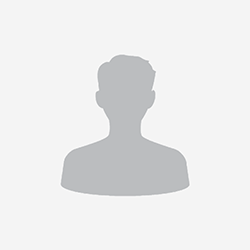
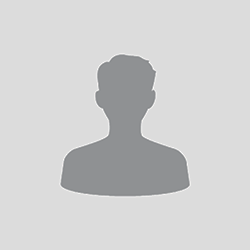
Update style and add 404

Changed region(s): [[0.224, 0.196, 0.784, 0.812]]

diff --git a/public/404.html b/public/404.html
@@ -1,0 +1,322 @@
+<!DOCTYPE html>
+<html>
+  <head>
+    <meta charset="utf-8" />
+    <meta name="viewport" content="width=device-width, initial-scale=1" />
+    <meta http-equiv="x-ua-compatible" content="ie=edge" />
+    <meta name="google-site-verification" content="tPF4MkMFOKSA1UpzqhOkmaLuZyXORthRVe-GqmqBDhE" />
+
+    <link rel="shortcut icon" href="/assets/icons/favicon.ico" />
+
+    <title>Page Not Found - Argabioso Domains</title>
+
+    <style>
+      body{
+        background-color: #f8f9fa;
+        display: flex;
+        height:100vh;
+        margin: 0;
+        padding: 0;
+      }
+
+      body.dark {
+        background-color: #202124;
+      }
+      #mainImage_create {
+        display: block;
+        width: 99%;
+        height: 99%;
+        margin: auto;
+      }
+
+      @media screen and (min-width: 801px) {
+        #mainImage_create {
+          width: 800px;
+          height: 600px;
+        }
+      }
+    </style>
+    <link rel="stylesheet" href="/assets/styles/common/fonts.css" />
+  </head>
+  <body>
+          <svg id="mainImage_create" data-name="mainImage" xmlns="http://www.w3.org/2000/svg" viewBox="0 0 171.2 81.5">
+            <style id="svgStyle">
+              .changeColor {
+                fill: #4f86ed;
+              }
+
+              #title {
+                font-size: 50%;
+                font-family: 'Google Sans', sans-serif;
+              }
+
+              body.dark #title {
+                fill: #fff;
+              }
+
+              .cls-1 {
+                opacity: 0.3;
+              }
+
+              .cls-7 {
+                opacity: 0.8;
+              }
+
+              .cls-2 {
+                fill: #fff;
+              }
+
+              .cls-10,
+              .cls-11,
+              .cls-12,
+              .cls-14,
+              .cls-16,
+              .cls-3 {
+                fill: none;
+              }
+
+              .cls-3 {
+                stroke: #5c7690;
+              }
+
+              body.dark .cls-3 {
+                stroke: #518bc4;
+              }
+
+              .cls-10,
+              .cls-11,
+              .cls-12,
+              .cls-3 {
+                stroke-miterlimit: 10;
+              }
+
+              .cls-14,
+              .cls-15,
+              .cls-16,
+              .cls-3 {
+                stroke-width: 0.5px;
+              }
+
+              .cls-4 {
+                fill: #ffe1d9;
+              }
+
+              .cls-5 {
+                fill: #ffcfbf;
+              }
+
+              .cls-6 {
+                fill: #fecbb6;
+              }
+
+              .cls-9 {
+                fill: #fecb02;
+              }
+
+              .cls-10,
+              .cls-12 {
+                stroke: #d26f51;
+              }
+
+              .cls-10,
+              .cls-11 {
+                stroke-width: 0.38px;
+              }
+
+              .cls-11 {
+                stroke: #000;
+              }
+
+              .cls-12 {
+                stroke-width: 0.19px;
+              }
+
+              .cls-13 {
+                opacity: 0.45;
+              }
+
+              .cls-14,
+              .cls-15,
+              .cls-16 {
+                stroke: #b0bec5;
+                stroke-linejoin: round;
+              }
+
+              .cls-15 {
+                fill: #edf0f2;
+              }
+
+              .cls-16 {
+                stroke-linecap: round;
+              }
+
+              .cls-17 {
+                font-family: 'Google Sans', sans-serif;
+                font-size: 49.87px;
+                font-weight: 700;
+              }
+
+              .cls-18 {
+                fill: #fffdbb;
+                opacity: 0.5;
+              }
+
+              body.dark .cls-15 {
+                fill: #36383d;
+              }
+
+              body.dark .cls-14,
+              body.dark .cls-15,
+              body.dark .cls-16 {
+                stroke: #666e73;
+              }
+
+
+              /*---------------------------
+                     SVG Animate
+            ---------------------------*/
+              .earMove {
+                transition: all ease-in-out 2s;
+                transform-origin: 50% 50%;
+                animation: earmove 1.5s linear infinite alternate;
+              }
+
+              .faceMove {
+                transition: all ease-in-out 2s;
+                transform-origin: 50% 50%;
+                animation: move 1.5s linear infinite alternate;
+              }
+
+              .neckMove {
+                transition: all ease-in-out 2s;
+                transform-origin: 50% 50%;
+                animation: neck 1.5s linear infinite alternate;
+              }
+
+
+              @keyframes earmove {
+                0% {
+                  transform: translateX(-0.3px) translateY(0.6px);
+                }
+                30% {
+                  transform: translateX(-0.3px) translateY(0.6px);
+                }
+
+                60% {
+                  transform: translateX(-0.7px) translateY(0px);
+                }
+
+                70% {
+                  transform: translateX(-0.7px) translateY(-0.3px);
+                }
+                100% {
+                  transform: translateX(-0.7px) translateY(-0.3px);
+                }
+              }
+
+              @keyframes move {
+                0% {
+                  transform: translateX(-0.3px) translateY(0.6px);
+                }
+                30% {
+                  transform: translateX(-0.3px) translateY(0.6px);
+                }
+
+                60% {
+                  transform: translateX(2px) translateY(0px);
+                }
+
+                70% {
+                  transform: translateX(2px) translateY(-0.3px);
+                }
+                100% {
+                  transform: translateX(2px) translateY(-0.3px);
+                }
+              }
+
+              @keyframes neck {
+                0% {
+                  transform: translateY(0.7px);
+                }
+                50% {
+                  transform: translateY(0.7px);
+                }
+                100% {
+                  transform: translateY(0px);
+                }
+              }
+            </style>
+            <path id="c-1" class="changeColor cls-1" d="M46.62,52.5c5.78,4.9,21.14,8.4,39.19,8.4s33.41-3.5,39.19-8.4c-5.78-4.9-21.14-8.4-39.19-8.4S52.41,47.6,46.62,52.5Z" style="fill: rgb(237, 162, 0);"></path>
+            <path class="cls-2" d="M99.73,47.71H68.65a7.13,7.13,0,0,0-7.13,7.13V60a152.58,152.58,0,0,0,24.3,1.83,157.87,157.87,0,0,0,21.05-1.35V54.84A7.13,7.13,0,0,0,99.73,47.71Z"></path>
+            <path class="cls-3" d="M123.56,55.81C115,58.94,101.27,61,85.81,61c-26,0-47-5.71-47-12.76,0-3.45,5.05-6.58,13.25-8.88"></path>
+            <path class="cls-3" d="M55.37,38.47a140,140,0,0,1,30.44-3c26,0,47,5.71,47,12.76,0,2.4-2.44,4.65-6.69,6.57"></path>
+            <path class="cls-3" d="M53.41,38.95l.94-.24"></path>
+            <path class="cls-4" d="M91.68,47.71l-.75-11.2L79.15,43.84l-1.69,3.87H75.79c0,3.36,3.76,6.08,8.4,6.08s8.4-2.72,8.4-6.08Z"></path>
+            <path class="cls-5 neckMove" d="M78,46.53a27.19,27.19,0,0,0,6.41.82c3.1,0,7.11-2.19,7.11-2.19l-.42-6.2L79.15,43.84Z"></path>
+            <polygon class="earMove" points="92.59 32.22 92.59 28.5 76.77 27.71 76.77 32.22 92.59 32.22"></polygon>
+            <circle class="cls-6 earMove" cx="78.06" cy="34.04" r="2.47"></circle>
+            <path class="cls-4" d="M81.74,57.06,60.63,49.72h0A6.72,6.72,0,1,0,57.7,62.49H93.25C93.25,56.78,81.74,57.06,81.74,57.06Z"></path>
+            <path class="cls-4" d="M77.46,25H90.92a0,0,0,0,1,0,0V39.38a6.73,6.73,0,0,1-6.73,6.73h0a6.73,6.73,0,0,1-6.73-6.73V25A0,0,0,0,1,77.46,25Z"></path>
+            <rect id="c-2" class="changeColor cls-7" x="74.82" y="26.48" width="19.14" height="2.45" transform="translate(1.29 -3.65) rotate(2.49)" style="fill: rgb(237, 162, 0);"></rect>
+            <path id="c-3" class="changeColor cls-7" d="M84.36,18.69h.5a7.8,7.8,0,0,1,7.8,7.8v0a0,0,0,0,1,0,0H76.56a0,0,0,0,1,0,0v0A7.8,7.8,0,0,1,84.36,18.69Z" transform="translate(1.06 -3.66) rotate(2.49)" style="fill: rgb(237, 162, 0);"></path>
+            <polygon id="c-4" class="changeColor cls-8" points="82.44 23.89 92.18 24.32 92.59 24.34 92.48 26.84 80.96 26.33 82.44 23.89" style="fill: rgb(237, 162, 0);"></polygon>
+            <circle class="cls-9 faceMove" cx="78.72" cy="23.73" r="3.73" transform="translate(51.58 101.34) rotate(-87.51)"></circle>
+            <circle class="cls-2 faceMove" cx="78.72" cy="23.73" r="2.36" transform="translate(51.58 101.34) rotate(-87.51)"></circle>
+            <circle class="cls-4 earMove" cx="90.92" cy="34.04" r="2.47"></circle>
+            <path class="cls-4" d="M112.2,53l-9.87-21.92-3-5.48-11.86-.22,7.42,3.35H91.55l5.82,4.58,2,22.26h0A6.72,6.72,0,1,0,112.2,53Z"></path>
+            <ellipse class="faceMove" cx="80.09" cy="33.12" rx="0.53" ry="0.59"></ellipse>
+            <ellipse class="faceMove" cx="86.34" cy="33.12" rx="0.53" ry="0.59"></ellipse>
+            <polyline class="cls-10 faceMove" points="84.19 31.08 81.74 37.01 84.39 37.01"></polyline>
+            <path class="cls-10 faceMove" d="M83.06,40.36a4,4,0,0,1,2.75-1"></path>
+            <line class="cls-11 faceMove" x1="81.07" y1="30.33" x2="78.47" y2="30.58"></line>
+            <line class="cls-11 faceMove" x1="86.34" y1="30.45" x2="88.15" y2="31.08"></line>
+            <line class="cls-12" x1="106.86" y1="47.82" x2="110.99" y2="46.11"></line>
+            <line class="cls-12" x1="107.43" y1="49.9" x2="111.55" y2="48.19"></line>
+            <line class="cls-12" x1="107.99" y1="51.98" x2="112.11" y2="50.27"></line>
+            <g class="cls-13">
+              <rect class="cls-14" x="85.81" y="2.46" width="10.77" height="3.5"></rect>
+              <rect class="cls-15" x="96.58" y="2.46" width="10.77" height="3.5"></rect>
+              <rect class="cls-14" x="92.19" y="5.95" width="10.77" height="3.5"></rect>
+              <line class="cls-16" x1="107.36" y1="5.95" x2="109.63" y2="5.95"></line>
+              <line class="cls-16" x1="110.68" y1="5.95" x2="111.57" y2="5.95"></line>
+            </g>
+            <g class="cls-13">
+              <rect class="cls-16" x="125" y="23.12" width="10.77" height="3.5"></rect>
+              <rect class="cls-15" x="130.39" y="26.62" width="10.77" height="3.5"></rect>
+              <rect class="cls-16" x="119.62" y="26.62" width="10.77" height="3.5"></rect>
+              <line class="cls-16" x1="141.16" y1="26.62" x2="145.73" y2="26.62"></line>
+              <line class="cls-16" x1="125" y1="23.12" x2="115.4" y2="23.12"></line>
+              <line class="cls-16" x1="117.95" y1="26.62" x2="115.4" y2="26.62"></line>
+            </g>
+            <g class="cls-13">
+              <rect class="cls-16" x="39.34" y="16.12" width="10.77" height="3.5"></rect>
+              <rect class="cls-16" x="39.34" y="23.11" width="10.77" height="3.5"></rect>
+              <rect class="cls-16" x="50.11" y="23.11" width="10.77" height="3.5"></rect>
+              <rect class="cls-16" x="50.11" y="16.12" width="10.77" height="3.5"></rect>
+              <rect class="cls-15" x="44" y="19.61" width="10.77" height="3.5"></rect>
+              <rect class="cls-16" x="33.23" y="19.61" width="10.77" height="3.5"></rect>
+              <line class="cls-16" x1="60.89" y1="19.61" x2="65.51" y2="19.61"></line>
+              <line class="cls-16" x1="39.34" y1="16.12" x2="35.46" y2="16.12"></line>
+              <line class="cls-16" x1="36.45" y1="26.61" x2="33.23" y2="26.61"></line>
+              <line class="cls-16" x1="63.2" y1="23.11" x2="65.51" y2="23.11"></line>
+            </g>
+            <polyline class="cls-3" points="115.4 58.12 115.4 38.27 120.2 37.01"></polyline>
+            <polyline class="cls-3" points="129.01 53.21 129.01 43.14 131.74 42.13"></polyline>
+            <path class="cls-3" d="M115.4,42.13a53.27,53.27,0,0,1,8,2A42,42,0,0,1,129,47"></path>
+            <path class="cls-3" d="M115.4,47.34a53.27,53.27,0,0,1,8,2A42,42,0,0,1,129,52.22"></path>
+            <path class="cls-3" d="M115.4,52.56a53.27,53.27,0,0,1,8,2l1,.42"></path>
+            <path class="cls-18 faceMove" d="M78.84,26.09l0-4.71L68.05,18.32a.91.91,0,0,0-.45-.13c-1.17,0-2.11,2.46-2.11,5.5s.95,5.5,2.11,5.5a.9.9,0,0,0,.44-.12Z"></path>
+            <path class="cls-5" d="M57.7,62.49H93.25A3.67,3.67,0,0,0,92.92,61H53.43A6.69,6.69,0,0,0,57.7,62.49Z"></path>
+            <path class="cls-12" d="M88.15,60.27s1.7.95,1.7,2.22"></path>
+            <path class="cls-5" d="M101.81,61a6.68,6.68,0,0,0,8.51,0Z"></path>
+            <polygon class="cls-5" points="90.92 30.25 77.46 29.69 77.46 28.64 90.92 29.22 90.92 30.25"></polygon>
+            <text id="title" transform="matrix(1 0 0 1 48.7249 78)">404. Page not found.</text>
+          </svg>
+
+          <!-- <h1 id="title">Subdomain not found.</h1> -->
+          <!-- <button id="newBtn" class="btn" disabled>&#8594; &nbsp;Back to Home</button> -->
+
+      <script src="/assets/scripts/resume/plugins.js"></script>
+      <script src="/assets/scripts/resume/main.js" defer></script>
+  </body>
+</html>

diff --git a/public/index.html b/public/index.html
@@ -83,7 +83,7 @@
           <div>
             <header>
               <p>Software Engineer, Redpoint Contracting</p>
-              <span class="resume__entry-datetime"><span class="hide-sm">October &ndash; December </span>2021</span>
+              <span class="resume__entry-datetime"><span class="hide-sm">October &ndash; December </span>2020</span>
             </header>
             <ul>
               <li>Automated and simplified internal workflows by developing Enterprise Resource Planning tools.</li>

diff --git a/public/family/index.html b/public/family/index.html
@@ -23,7 +23,7 @@
   </div>
 
   <footer class="hidden">
-    <span>Arbyn Acosta Argabioso - Family Tree &copy; <span id="datestamp">March 2021</span></span>
+    <span>Arbyn Acosta Argabioso - Family Tree &copy; <span id="datestamp">2022</span></span>
   </footer>
 
   <script src="../assets/scripts/family/go.js"></script>

diff --git a/public/argabioso.html b/public/argabioso.html
@@ -4,10 +4,11 @@
 <head>
   <meta charset="utf-8">
   <meta name="viewport" content="width=device-width, initial-scale=1">
-  <title></title>
+  <title>Argabioso Domains</title>
 
   <style type="text/css">
     html, body {
+      background-color: #f8f9fa;
       height: 100%;
       margin: 0;
       padding: 0;

diff --git a/public/assets/scripts/family/main.js b/public/assets/scripts/family/main.js
@@ -125,7 +125,7 @@ tree.linkTemplate = $(
     go.Shape,
     {
       strokeWidth: 1,
-      stroke: "#6a6a6a"
+      stroke: "#9f9f9f"
     }
   )
 );

diff --git a/public/assets/styles/family/main.css b/public/assets/styles/family/main.css
@@ -5,7 +5,7 @@ body {
 }
 
 #tree {
-  background-color: #babfc5;
+  background-color: #f1f3f4;
   width: 100vw;
   height: 100vh
 }
